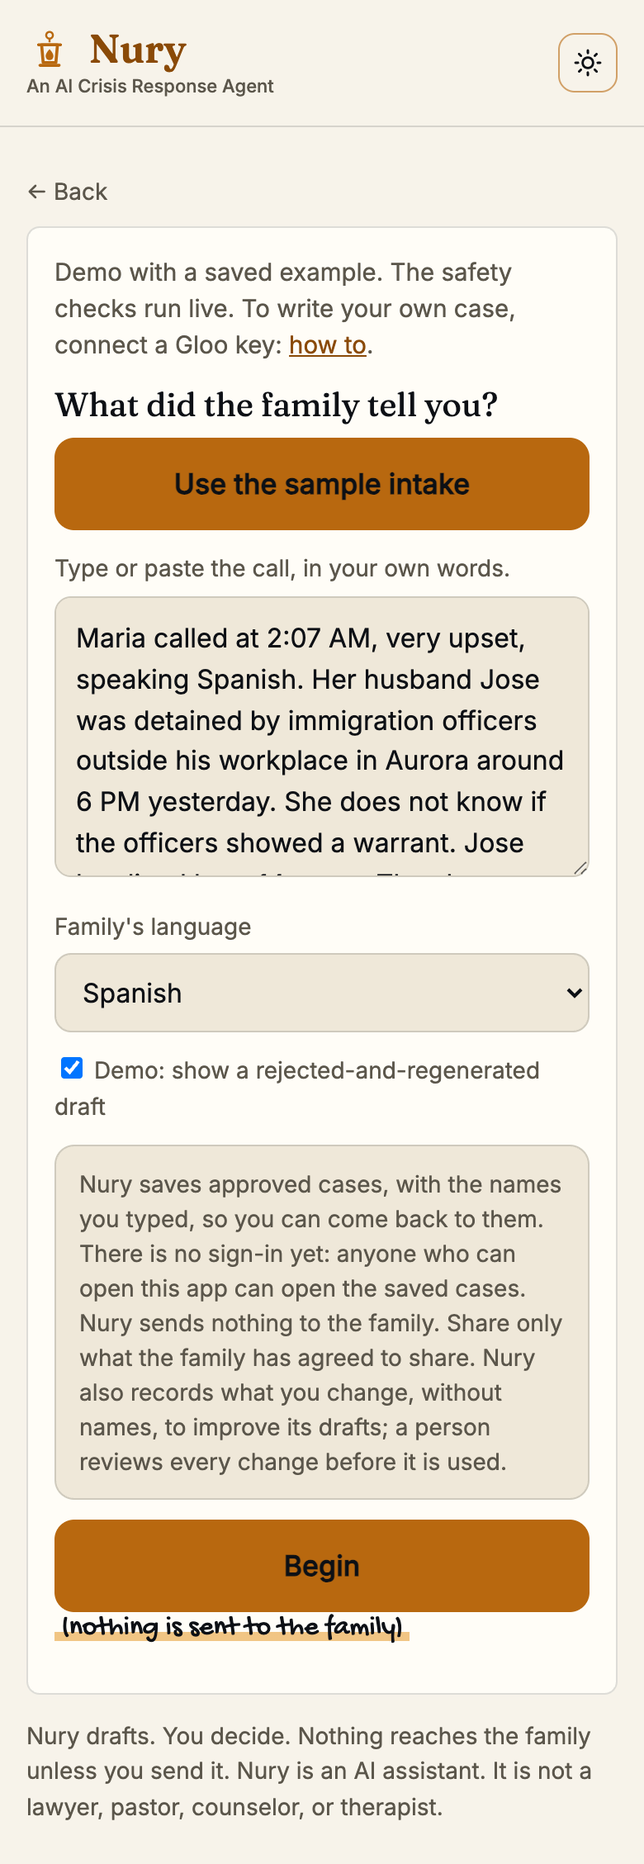
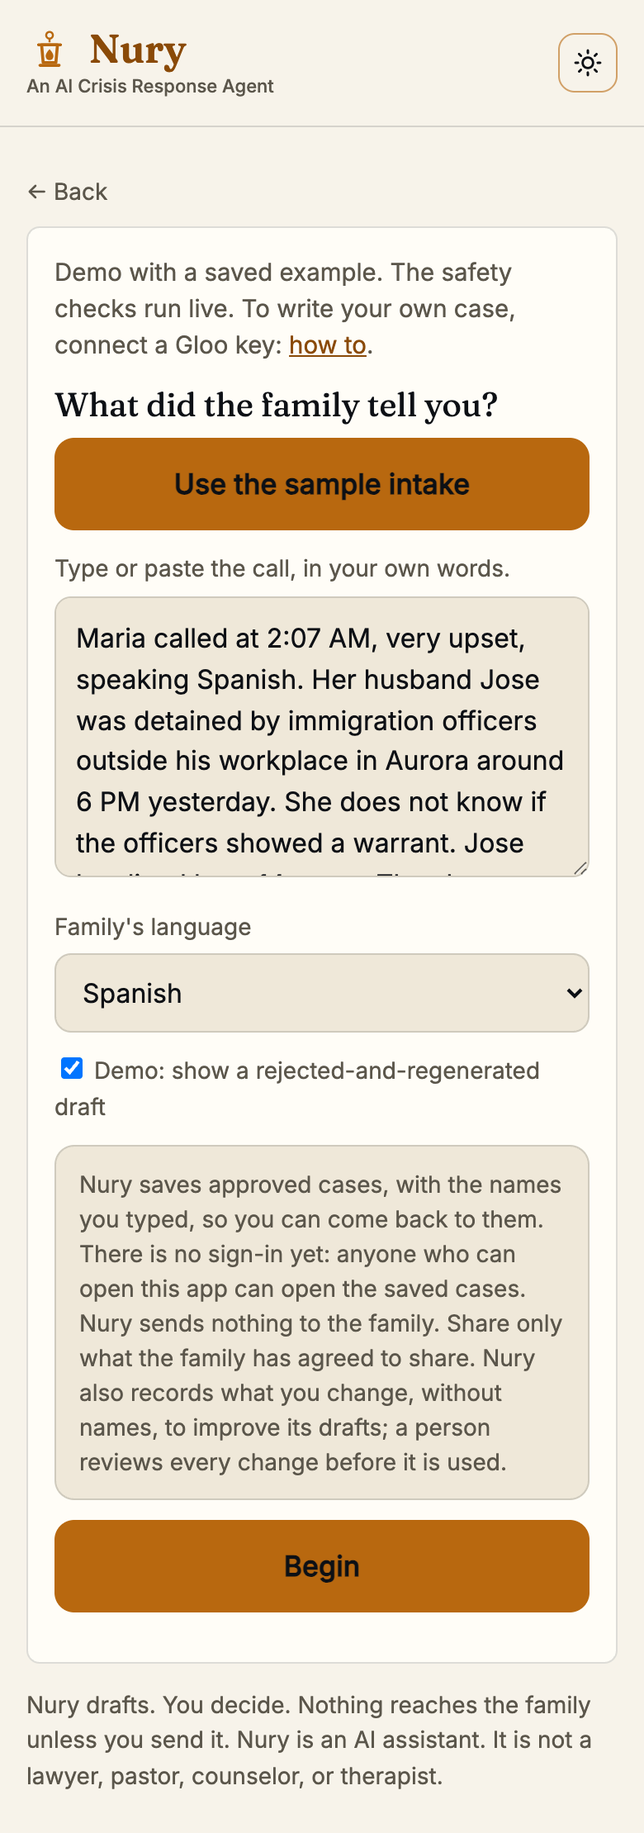
Deck: one-engine (real chooser), the-demo (three real screens), what-the-family-gets (real PDF pages) in the v2 design; deck crops script

diff --git a/presentation/deck.html b/presentation/deck.html
@@ -183,6 +183,26 @@ body.clean .foot{visibility:hidden}@media print{#idx{display:none!important}}
 .v2.nm .lantern .flame{animation-delay:.5s}.v2.nm .lantern .body{animation-delay:.5s}
 .v2.nm .lbl{left:10vw;top:6vh}
 @media (prefers-reduced-motion:reduce){.v2.nm .word,.v2.nm .tagl,.v2.nm .tagline-line,.v2.nm .tags,.v2.nm .hand{opacity:1;animation:none}}
+
+/* engine + demo */
+.v2 .tg.soon{color:var(--muted);border-style:dashed}
+.v2 .eng{grid-template-columns:.8fr 1.2fr}
+.v2 .eng .frame{justify-self:center;max-width:100%}.v2 .eng .frame img{max-height:72vh;width:auto;max-width:100%;margin:0 auto}
+.v2.demo{padding-inline:6vw}.v2.demo h2.h{max-width:none}
+.v2 .strip3{display:flex;gap:2vw;align-items:flex-end;justify-content:center}
+.v2 .strip3 figure{margin:0;display:grid;gap:1.4vh;justify-items:center;flex:none}
+.v2 .strip3 .frame{padding:8px}.v2 .strip3 img{height:35vh;width:auto;max-width:100%}
+.v2 .strip3 figcaption{font:600 clamp(13px,1.3vw,22px)/1.2 var(--sans);color:var(--ink)}
+.v2 .strip3 figcaption b{color:var(--amber-text);font-family:var(--serif);margin-right:.3em}
+@media (max-width:760px){.v2 .eng{grid-template-columns:1fr}.v2 .strip3{flex-direction:column;align-items:stretch}.v2 .strip3 img{height:auto;width:100%}}
+
+/* family */
+.v2 .fam{grid-template-columns:.7fr 1.3fr}
+.v2 .pages{display:flex;gap:1.8vw;justify-content:center;align-items:flex-start}
+.v2 .pages figure{margin:0;display:grid;gap:1.2vh;justify-items:center;min-width:0}
+.v2 .pages .frame{padding:8px}.v2 .pages img{height:54vh;width:auto;max-width:100%}
+.v2 .pages figcaption{font:600 clamp(13px,1.3vw,22px)/1.2 var(--sans);color:var(--ink);text-align:center}
+@media (max-width:760px){.v2 .fam{grid-template-columns:1fr}.v2 .pages{flex-direction:column;align-items:center}.v2 .pages img{height:auto;width:100%}}
 </style></head><body>
 
 <!-- ============ MAIN TALK (3:00). data-cut="90" stays in the 90-second cut ============ -->
@@ -207,34 +227,37 @@ body.clean .foot{visibility:hidden}@media print{#idx{display:none!important}}
 <p class="hand"><svg class="arrow flip" viewBox="0 0 90 64" aria-hidden="true"><path d="M5 10 C 34 4, 68 20, 74 54"/><path d="M60 44 L74 56 L80 38"/></svg><span class="hl">see also: lantern</span></p></div>
 <aside class="notes">LANTERN. 0:11 to 0:17. The slide turns from night to paper and the lantern lights. Say: "This is Nury." Pause while the entry builds (about 2 seconds), then read: "A given name from Arabic nur, light. An AI crisis response agent." Merged with the old "This is Nury." slide in the taste pass. Brand line locked: An AI Crisis Response Agent. Presenter credit line (cut from the slide, say it only if asked): Juan Peláez, 3Metas, Gloo AI Hackathon, Track 1. APPROVED by Juan. Do not say her name here: it appears once, in the memorial. Pronunciation /NOO-ree/. SOURCES: (all read 2026-10-07; full table in presentation/NAME_ENTRY.md): Arabic nur, "light, ray of light ... lamp, light, lantern", Wiktionary https://en.wiktionary.org/wiki/%D9%86%D9%88%D8%B1 (citing the Doha Historical Dictionary of Arabic); Noor is a common Arabic unisex name meaning light, Wikipedia https://en.wikipedia.org/wiki/Noor_(name); nuriyy, "luminous", and Turkmen Nury from it, Wiktionary https://en.wiktionary.org/wiki/%D9%86%D9%88%D8%B1%D9%8A and https://en.wiktionary.org/wiki/Nury; Nuri, "my light", Behind the Name https://www.behindthename.com/name/nuri. If asked: the sources differ on "luminous" vs "my light"; both say light. Not verified and not used: that Nuria comes from Arabic nur, and which origin any one person's name has.</aside></section>
 
-<section class="slide" data-part="talk" data-name="one-engine">
+<section class="slide v2" data-part="talk" data-name="one-engine">
 <p class="lbl">03 · The product</p>
-<h2 class="big">One engine. Every crisis is its own workflow.</h2>
-<div class="wf" role="list">
-<div class="wr" role="listitem"><p class="wt">Immigration matter</p><div class="wc" role="img" aria-label="Immigration matter stages: Triage, Rights brief, Attorney resources, Family checklist, Pastoral message, with a gate after each"><span class="st">Triage</span><i class="gate" aria-hidden="true"></i><span class="ar" aria-hidden="true">→</span><span class="st">Rights brief</span><i class="gate" aria-hidden="true"></i><span class="ar" aria-hidden="true">→</span><span class="st">Attorney resources</span><i class="gate" aria-hidden="true"></i><span class="ar" aria-hidden="true">→</span><span class="st">Family checklist</span><i class="gate" aria-hidden="true"></i><span class="ar" aria-hidden="true">→</span><span class="st">Pastoral message</span><i class="gate" aria-hidden="true"></i></div></div>
-<div class="wr" role="listitem"><p class="wt">Hospital emergency</p><div class="wc" role="img" aria-label="Hospital emergency stages: Triage, Family information brief, Hospital resources, Family checklist, Pastoral message, with a gate after each"><span class="st">Triage</span><i class="gate" aria-hidden="true"></i><span class="ar" aria-hidden="true">→</span><span class="st">Family information brief</span><i class="gate" aria-hidden="true"></i><span class="ar" aria-hidden="true">→</span><span class="st">Hospital resources</span><i class="gate" aria-hidden="true"></i><span class="ar" aria-hidden="true">→</span><span class="st">Family checklist</span><i class="gate" aria-hidden="true"></i><span class="ar" aria-hidden="true">→</span><span class="st">Pastoral message</span><i class="gate" aria-hidden="true"></i></div></div>
-<div class="wr soon" role="listitem"><p class="wt">Sudden loss</p><p class="wc muted">coming soon</p></div>
-<div class="wr soon" role="listitem"><p class="wt">House fire</p><p class="wc muted">coming soon</p></div></div>
-<p class="strip"><b>Same for every crisis.</b> Rules check every draft. The pastor approves, edits or stops each stage. Nothing is sent but by the pastor.</p>
-<p class="small" data-gated="scripture">The pastoral message carries a Bible verse, quoted from a verified list.</p>
+<div class="split eng"><div class="stack">
+<h2 class="h">One engine. Every crisis is its own workflow.</h2>
+<p class="sub">Each crisis has its own stages. Two run today.</p>
+<div class="tags"><span class="tg">Immigration matter</span><span class="tg">Hospital emergency</span><span class="tg soon">Two coming soon</span></div>
+<p class="hand"><svg class="arrow flip" viewBox="0 0 90 64" aria-hidden="true"><path d="M5 10 C 34 4, 68 20, 74 54"/><path d="M60 44 L74 56 L80 38"/></svg><span class="hl">two live, two on the way</span></p>
+<p class="small" data-gated="scripture">The pastoral message carries a Bible verse, quoted from a verified list.</p></div>
+<div class="frame"><img src="images/screens/chooser.png" alt="The crisis chooser in the app: Immigration matter and Hospital emergency are live, Sudden loss and House fire say coming soon" width="1280" height="1215"></div></div>
 <aside class="notes">LIGHT. 0:17 to 0:29. Say: "Each crisis is its own workflow, with its own stages. Both live ones have a gate after each. Two more are coming soon. Nothing is sent without the pastor." The stages come from each playbook's stages.json (detention: Triage, Rights brief, Attorney resources, Family checklist, Pastoral message; hospital: Triage, Family information brief, Hospital resources, Family checklist, Pastoral message). Both live ones happen to have five; the engine allows any number. Eric's L4 "Five stages. A gate after each." narrates the detention demo that follows and stays true there. Do NOT say "the one you saw": the demo comes next. [GATED, scripture: after Sensei confirms in writing, say: the pastoral message carries a Bible verse, quoted from a verified list; the AI never writes Scripture.] Criterion: Concept and Product. Say nothing more about the coming-soon cards.</aside></section>
 
-<section class="slide" data-cut="90" data-part="talk" data-name="the-demo">
+<section class="slide v2 demo" data-cut="90" data-part="talk" data-name="the-demo">
 <p class="lbl">04 · The demo</p>
-<h2 class="big">One call. Start to finish.</h2>
-<div class="appstrip"><figure><img src="images/app/s1-chooser.png" alt="The crisis chooser: Immigration matter and Hospital emergency are live, Sudden loss and House fire say coming soon" height="560"><figcaption>1 · Pick the crisis</figcaption></figure>
-<figure><img src="images/app/s2-intake.png" alt="The intake: what the family told the pastor, the family's language, and Begin" height="560"><figcaption>2 · Type what the family said</figcaption></figure>
-<figure><img src="images/app/s3-gate.png" alt="Stage 1, Triage, ready for review: situation, people, location, language, urgency, three missing facts" height="560"><figcaption>3 · Read each stage</figcaption></figure>
-<figure><img src="images/app/s4-case.png" alt="The saved case: every stage approved, and the next steps" height="560"><figcaption>4 · Approve, edit or stop</figcaption></figure></div>
-<p class="strip"><b>Nothing moves on without the pastor.</b> Nothing is sent to the family. Real screens, a made-up family.</p>
+<div class="stack"><h2 class="h">One call. Start to finish.</h2>
+<p class="sub">Nothing moves on without the pastor. Nothing is sent.</p></div>
+<div class="strip3">
+<figure><div class="frame"><img src="images/screens/chooser.png" alt="The crisis chooser: Immigration matter and Hospital emergency are live" width="1280" height="1215"></div><figcaption><b>1</b>Pick the crisis</figcaption></figure>
+<figure><div class="frame"><img src="images/screens/gate.png" alt="Stage 1, Triage, ready for review: situation, people, location, language, urgency, three missing facts, with Approve, Edit and Stop" width="1300" height="1838"></div><figcaption><b>2</b>Read each stage</figcaption></figure>
+<figure><div class="frame"><img src="images/screens/case-overview.png" alt="The saved case: every stage approved, ending in Case complete" width="2144" height="880"></div><figcaption><b>3</b>Approve, edit or stop</figcaption></figure></div>
+<p class="hand"><svg class="arrow flip" viewBox="0 0 90 64" aria-hidden="true"><path d="M5 10 C 34 4, 68 20, 74 54"/><path d="M60 44 L74 56 L80 38"/></svg><span class="hl">real screens, a made-up family</span></p>
 <aside class="notes">LIGHT. 0:29 to 1:07. DECIDED (hack-sensei): Eric's film plays and Juan stays silent while it plays (rows 5 to 7 of the film, about 27 s). Juan BEFORE, about 3 s: "Here is one call, start to finish." Film plays. Juan AFTER, about 4 s: "A draft that failed was held back. Nury never sends. The pastor does." (softened from "never saw the unsafe draft" to match limit L1) No live app on stage. The selector screenshot is the first frame. Cut in the taste pass: the line about Approve, Edit or Stop (Eric says it) and "Nothing is sent" (Juan says it after).</aside></section>
 
-<section class="slide" data-part="talk" data-name="what-the-family-gets">
+<section class="slide v2" data-part="talk" data-name="what-the-family-gets">
 <p class="lbl">05 · What the family gets</p>
-<h2 class="big">What the family gets.</h2>
-<div class="docs"><figure><img src="images/family-copy-p1.png" alt="Page 1 of the family copy, in Spanish: Información para la familia, with the rights points and their source" width="680" height="880"><figcaption>Family copy, in Spanish</figcaption></figure>
-<figure><img src="images/pastor-copy-p2.png" alt="Page 2 of the pastor copy: What to do next, tonight, in seven steps, and a short pastoral message" width="680" height="880"><figcaption>Pastor copy: next steps and the pastoral message</figcaption></figure></div>
-<p class="strip"><b>A PDF the pastor can hand over.</b> The pastor reads and approves every line first. A made-up family.</p>
+<div class="split fam"><div class="stack">
+<h2 class="h">What the family gets.</h2>
+<p class="sub">A PDF the pastor can hand over.</p>
+<p class="hand"><svg class="arrow flip" viewBox="0 0 90 64" aria-hidden="true"><path d="M5 10 C 34 4, 68 20, 74 54"/><path d="M60 44 L74 56 L80 38"/></svg><span class="hl">the pastor reads every line first</span></p></div>
+<div class="pages">
+<figure><div class="frame"><img src="images/family-copy-p1.png" alt="Page 1 of the family copy, in Spanish: Información para la familia, with the rights points and their source" width="680" height="880"></div><figcaption>Family copy, in Spanish</figcaption></figure>
+<figure><div class="frame"><img src="images/pastor-copy-p2.png" alt="Page 2 of the pastor copy: What to do next, tonight, in seven steps, and a short pastoral message" width="680" height="880"></div><figcaption>Pastor copy</figcaption></figure></div></div>
 <aside class="notes">LIGHT. 1:07 to 1:15 (about 14 s). Criterion: Impact and Concept. Say: "This is what the family gets: a copy in their own language, as a PDF the pastor can hand over. The pastor reads and approves every line first." Real pages from a recorded run on the sample intake (made-up family): page 1 of the Spanish family copy and page 2 of the pastor copy (next steps, pastoral message). PDF export needs Chrome or Chromium; without it the app gives a print view. The family copy cites its source on every point. Claim nothing about a family having received one: none has.</aside></section>
 
 <section class="slide" data-part="talk" data-name="built-to-grow">

diff --git a/presentation/deck_template.html b/presentation/deck_template.html
@@ -183,6 +183,26 @@ body.clean .foot{visibility:hidden}@media print{#idx{display:none!important}}
 .v2.nm .lantern .flame{animation-delay:.5s}.v2.nm .lantern .body{animation-delay:.5s}
 .v2.nm .lbl{left:10vw;top:6vh}
 @media (prefers-reduced-motion:reduce){.v2.nm .word,.v2.nm .tagl,.v2.nm .tagline-line,.v2.nm .tags,.v2.nm .hand{opacity:1;animation:none}}
+
+/* engine + demo */
+.v2 .tg.soon{color:var(--muted);border-style:dashed}
+.v2 .eng{grid-template-columns:.8fr 1.2fr}
+.v2 .eng .frame{justify-self:center;max-width:100%}.v2 .eng .frame img{max-height:72vh;width:auto;max-width:100%;margin:0 auto}
+.v2.demo{padding-inline:6vw}.v2.demo h2.h{max-width:none}
+.v2 .strip3{display:flex;gap:2vw;align-items:flex-end;justify-content:center}
+.v2 .strip3 figure{margin:0;display:grid;gap:1.4vh;justify-items:center;flex:none}
+.v2 .strip3 .frame{padding:8px}.v2 .strip3 img{height:35vh;width:auto;max-width:100%}
+.v2 .strip3 figcaption{font:600 clamp(13px,1.3vw,22px)/1.2 var(--sans);color:var(--ink)}
+.v2 .strip3 figcaption b{color:var(--amber-text);font-family:var(--serif);margin-right:.3em}
+@media (max-width:760px){.v2 .eng{grid-template-columns:1fr}.v2 .strip3{flex-direction:column;align-items:stretch}.v2 .strip3 img{height:auto;width:100%}}
+
+/* family */
+.v2 .fam{grid-template-columns:.7fr 1.3fr}
+.v2 .pages{display:flex;gap:1.8vw;justify-content:center;align-items:flex-start}
+.v2 .pages figure{margin:0;display:grid;gap:1.2vh;justify-items:center;min-width:0}
+.v2 .pages .frame{padding:8px}.v2 .pages img{height:54vh;width:auto;max-width:100%}
+.v2 .pages figcaption{font:600 clamp(13px,1.3vw,22px)/1.2 var(--sans);color:var(--ink);text-align:center}
+@media (max-width:760px){.v2 .fam{grid-template-columns:1fr}.v2 .pages{flex-direction:column;align-items:center}.v2 .pages img{height:auto;width:100%}}
 </style></head><body>
 
 <!-- ============ MAIN TALK (3:00). data-cut="90" stays in the 90-second cut ============ -->
@@ -207,34 +227,37 @@ body.clean .foot{visibility:hidden}@media print{#idx{display:none!important}}
 <p class="hand"><svg class="arrow flip" viewBox="0 0 90 64" aria-hidden="true"><path d="M5 10 C 34 4, 68 20, 74 54"/><path d="M60 44 L74 56 L80 38"/></svg><span class="hl">see also: lantern</span></p></div>
 <aside class="notes">LANTERN. 0:11 to 0:17. The slide turns from night to paper and the lantern lights. Say: "This is Nury." Pause while the entry builds (about 2 seconds), then read: "A given name from Arabic nur, light. An AI crisis response agent." Merged with the old "This is Nury." slide in the taste pass. Brand line locked: An AI Crisis Response Agent. Presenter credit line (cut from the slide, say it only if asked): Juan Peláez, 3Metas, Gloo AI Hackathon, Track 1. APPROVED by Juan. Do not say her name here: it appears once, in the memorial. Pronunciation /NOO-ree/. SOURCES: (all read 2026-10-07; full table in presentation/NAME_ENTRY.md): Arabic nur, "light, ray of light ... lamp, light, lantern", Wiktionary https://en.wiktionary.org/wiki/%D9%86%D9%88%D8%B1 (citing the Doha Historical Dictionary of Arabic); Noor is a common Arabic unisex name meaning light, Wikipedia https://en.wikipedia.org/wiki/Noor_(name); nuriyy, "luminous", and Turkmen Nury from it, Wiktionary https://en.wiktionary.org/wiki/%D9%86%D9%88%D8%B1%D9%8A and https://en.wiktionary.org/wiki/Nury; Nuri, "my light", Behind the Name https://www.behindthename.com/name/nuri. If asked: the sources differ on "luminous" vs "my light"; both say light. Not verified and not used: that Nuria comes from Arabic nur, and which origin any one person's name has.</aside></section>
 
-<section class="slide" data-part="talk" data-name="one-engine">
+<section class="slide v2" data-part="talk" data-name="one-engine">
 <p class="lbl">03 · The product</p>
-<h2 class="big">One engine. Every crisis is its own workflow.</h2>
-<div class="wf" role="list">
-<div class="wr" role="listitem"><p class="wt">Immigration matter</p><div class="wc" role="img" aria-label="Immigration matter stages: Triage, Rights brief, Attorney resources, Family checklist, Pastoral message, with a gate after each"><span class="st">Triage</span><i class="gate" aria-hidden="true"></i><span class="ar" aria-hidden="true">→</span><span class="st">Rights brief</span><i class="gate" aria-hidden="true"></i><span class="ar" aria-hidden="true">→</span><span class="st">Attorney resources</span><i class="gate" aria-hidden="true"></i><span class="ar" aria-hidden="true">→</span><span class="st">Family checklist</span><i class="gate" aria-hidden="true"></i><span class="ar" aria-hidden="true">→</span><span class="st">Pastoral message</span><i class="gate" aria-hidden="true"></i></div></div>
-<div class="wr" role="listitem"><p class="wt">Hospital emergency</p><div class="wc" role="img" aria-label="Hospital emergency stages: Triage, Family information brief, Hospital resources, Family checklist, Pastoral message, with a gate after each"><span class="st">Triage</span><i class="gate" aria-hidden="true"></i><span class="ar" aria-hidden="true">→</span><span class="st">Family information brief</span><i class="gate" aria-hidden="true"></i><span class="ar" aria-hidden="true">→</span><span class="st">Hospital resources</span><i class="gate" aria-hidden="true"></i><span class="ar" aria-hidden="true">→</span><span class="st">Family checklist</span><i class="gate" aria-hidden="true"></i><span class="ar" aria-hidden="true">→</span><span class="st">Pastoral message</span><i class="gate" aria-hidden="true"></i></div></div>
-<div class="wr soon" role="listitem"><p class="wt">Sudden loss</p><p class="wc muted">coming soon</p></div>
-<div class="wr soon" role="listitem"><p class="wt">House fire</p><p class="wc muted">coming soon</p></div></div>
-<p class="strip"><b>Same for every crisis.</b> Rules check every draft. The pastor approves, edits or stops each stage. Nothing is sent but by the pastor.</p>
-<p class="small" data-gated="scripture">The pastoral message carries a Bible verse, quoted from a verified list.</p>
+<div class="split eng"><div class="stack">
+<h2 class="h">One engine. Every crisis is its own workflow.</h2>
+<p class="sub">Each crisis has its own stages. Two run today.</p>
+<div class="tags"><span class="tg">Immigration matter</span><span class="tg">Hospital emergency</span><span class="tg soon">Two coming soon</span></div>
+<p class="hand"><svg class="arrow flip" viewBox="0 0 90 64" aria-hidden="true"><path d="M5 10 C 34 4, 68 20, 74 54"/><path d="M60 44 L74 56 L80 38"/></svg><span class="hl">two live, two on the way</span></p>
+<p class="small" data-gated="scripture">The pastoral message carries a Bible verse, quoted from a verified list.</p></div>
+<div class="frame"><img src="images/screens/chooser.png" alt="The crisis chooser in the app: Immigration matter and Hospital emergency are live, Sudden loss and House fire say coming soon" width="1280" height="1215"></div></div>
 <aside class="notes">LIGHT. 0:17 to 0:29. Say: "Each crisis is its own workflow, with its own stages. Both live ones have a gate after each. Two more are coming soon. Nothing is sent without the pastor." The stages come from each playbook's stages.json (detention: Triage, Rights brief, Attorney resources, Family checklist, Pastoral message; hospital: Triage, Family information brief, Hospital resources, Family checklist, Pastoral message). Both live ones happen to have five; the engine allows any number. Eric's L4 "Five stages. A gate after each." narrates the detention demo that follows and stays true there. Do NOT say "the one you saw": the demo comes next. [GATED, scripture: after Sensei confirms in writing, say: the pastoral message carries a Bible verse, quoted from a verified list; the AI never writes Scripture.] Criterion: Concept and Product. Say nothing more about the coming-soon cards.</aside></section>
 
-<section class="slide" data-cut="90" data-part="talk" data-name="the-demo">
+<section class="slide v2 demo" data-cut="90" data-part="talk" data-name="the-demo">
 <p class="lbl">04 · The demo</p>
-<h2 class="big">One call. Start to finish.</h2>
-<div class="appstrip"><figure><img src="images/app/s1-chooser.png" alt="The crisis chooser: Immigration matter and Hospital emergency are live, Sudden loss and House fire say coming soon" height="560"><figcaption>1 · Pick the crisis</figcaption></figure>
-<figure><img src="images/app/s2-intake.png" alt="The intake: what the family told the pastor, the family's language, and Begin" height="560"><figcaption>2 · Type what the family said</figcaption></figure>
-<figure><img src="images/app/s3-gate.png" alt="Stage 1, Triage, ready for review: situation, people, location, language, urgency, three missing facts" height="560"><figcaption>3 · Read each stage</figcaption></figure>
-<figure><img src="images/app/s4-case.png" alt="The saved case: every stage approved, and the next steps" height="560"><figcaption>4 · Approve, edit or stop</figcaption></figure></div>
-<p class="strip"><b>Nothing moves on without the pastor.</b> Nothing is sent to the family. Real screens, a made-up family.</p>
+<div class="stack"><h2 class="h">One call. Start to finish.</h2>
+<p class="sub">Nothing moves on without the pastor. Nothing is sent.</p></div>
+<div class="strip3">
+<figure><div class="frame"><img src="images/screens/chooser.png" alt="The crisis chooser: Immigration matter and Hospital emergency are live" width="1280" height="1215"></div><figcaption><b>1</b>Pick the crisis</figcaption></figure>
+<figure><div class="frame"><img src="images/screens/gate.png" alt="Stage 1, Triage, ready for review: situation, people, location, language, urgency, three missing facts, with Approve, Edit and Stop" width="1300" height="1838"></div><figcaption><b>2</b>Read each stage</figcaption></figure>
+<figure><div class="frame"><img src="images/screens/case-overview.png" alt="The saved case: every stage approved, ending in Case complete" width="2144" height="880"></div><figcaption><b>3</b>Approve, edit or stop</figcaption></figure></div>
+<p class="hand"><svg class="arrow flip" viewBox="0 0 90 64" aria-hidden="true"><path d="M5 10 C 34 4, 68 20, 74 54"/><path d="M60 44 L74 56 L80 38"/></svg><span class="hl">real screens, a made-up family</span></p>
 <aside class="notes">LIGHT. 0:29 to 1:07. DECIDED (hack-sensei): Eric's film plays and Juan stays silent while it plays (rows 5 to 7 of the film, about 27 s). Juan BEFORE, about 3 s: "Here is one call, start to finish." Film plays. Juan AFTER, about 4 s: "A draft that failed was held back. Nury never sends. The pastor does." (softened from "never saw the unsafe draft" to match limit L1) No live app on stage. The selector screenshot is the first frame. Cut in the taste pass: the line about Approve, Edit or Stop (Eric says it) and "Nothing is sent" (Juan says it after).</aside></section>
 
-<section class="slide" data-part="talk" data-name="what-the-family-gets">
+<section class="slide v2" data-part="talk" data-name="what-the-family-gets">
 <p class="lbl">05 · What the family gets</p>
-<h2 class="big">What the family gets.</h2>
-<div class="docs"><figure><img src="images/family-copy-p1.png" alt="Page 1 of the family copy, in Spanish: Información para la familia, with the rights points and their source" width="680" height="880"><figcaption>Family copy, in Spanish</figcaption></figure>
-<figure><img src="images/pastor-copy-p2.png" alt="Page 2 of the pastor copy: What to do next, tonight, in seven steps, and a short pastoral message" width="680" height="880"><figcaption>Pastor copy: next steps and the pastoral message</figcaption></figure></div>
-<p class="strip"><b>A PDF the pastor can hand over.</b> The pastor reads and approves every line first. A made-up family.</p>
+<div class="split fam"><div class="stack">
+<h2 class="h">What the family gets.</h2>
+<p class="sub">A PDF the pastor can hand over.</p>
+<p class="hand"><svg class="arrow flip" viewBox="0 0 90 64" aria-hidden="true"><path d="M5 10 C 34 4, 68 20, 74 54"/><path d="M60 44 L74 56 L80 38"/></svg><span class="hl">the pastor reads every line first</span></p></div>
+<div class="pages">
+<figure><div class="frame"><img src="images/family-copy-p1.png" alt="Page 1 of the family copy, in Spanish: Información para la familia, with the rights points and their source" width="680" height="880"></div><figcaption>Family copy, in Spanish</figcaption></figure>
+<figure><div class="frame"><img src="images/pastor-copy-p2.png" alt="Page 2 of the pastor copy: What to do next, tonight, in seven steps, and a short pastoral message" width="680" height="880"></div><figcaption>Pastor copy</figcaption></figure></div></div>
 <aside class="notes">LIGHT. 1:07 to 1:15 (about 14 s). Criterion: Impact and Concept. Say: "This is what the family gets: a copy in their own language, as a PDF the pastor can hand over. The pastor reads and approves every line first." Real pages from a recorded run on the sample intake (made-up family): page 1 of the Spanish family copy and page 2 of the pastor copy (next steps, pastoral message). PDF export needs Chrome or Chromium; without it the app gives a print view. The family copy cites its source on every point. Claim nothing about a family having received one: none has.</aside></section>
 
 <section class="slide" data-part="talk" data-name="built-to-grow">

diff --git a/presentation/screens/make_deck_crops.py b/presentation/screens/make_deck_crops.py
@@ -1,0 +1,11 @@
+#!/usr/bin/env python3
+"""Cuts the deck's three crops from the screenshots in presentation/screens (run after capture_screens.py).
+chooser = the whole popup; gate = the stage-1 gate card; case-overview = the case header, tabs and the five-stage sequence."""
+from pathlib import Path
+from PIL import Image
+S = Path(__file__).resolve().parent
+O = S.parent / "images" / "screens"
+O.mkdir(exist_ok=True)
+Image.open(S / "03-chooser-1280.png").convert("RGB").save(O / "chooser.png", optimize=True)
+Image.open(S / "05-gate-1280.png").convert("RGB").crop((630, 596, 1930, 2434)).save(O / "gate.png", optimize=True)
+Image.open(S / "07-case-overview-1280.png").convert("RGB").crop((208, 160, 2352, 1040)).save(O / "case-overview.png", optimize=True)

diff --git a/presentation/screens/capture_screens.py b/presentation/screens/capture_screens.py
@@ -51,7 +51,8 @@ def until(js, secs=60):
 
 
 def settle():
-    ev("document.activeElement&&document.activeElement.blur();window.scrollTo(0,0);1")
+    # the slides carry their own handwritten asides: hide the app's hint notes in the picture (a style in the open page only, the app is not changed)
+    ev("(()=>{if(!document.getElementById('nohn')){const s=document.createElement('style');s.id='nohn';s.textContent='.hnote{display:none!important}';document.head.append(s)}document.activeElement&&document.activeElement.blur();window.scrollTo(0,0);return 1})()")
     ab("wait", "400")
 
 
